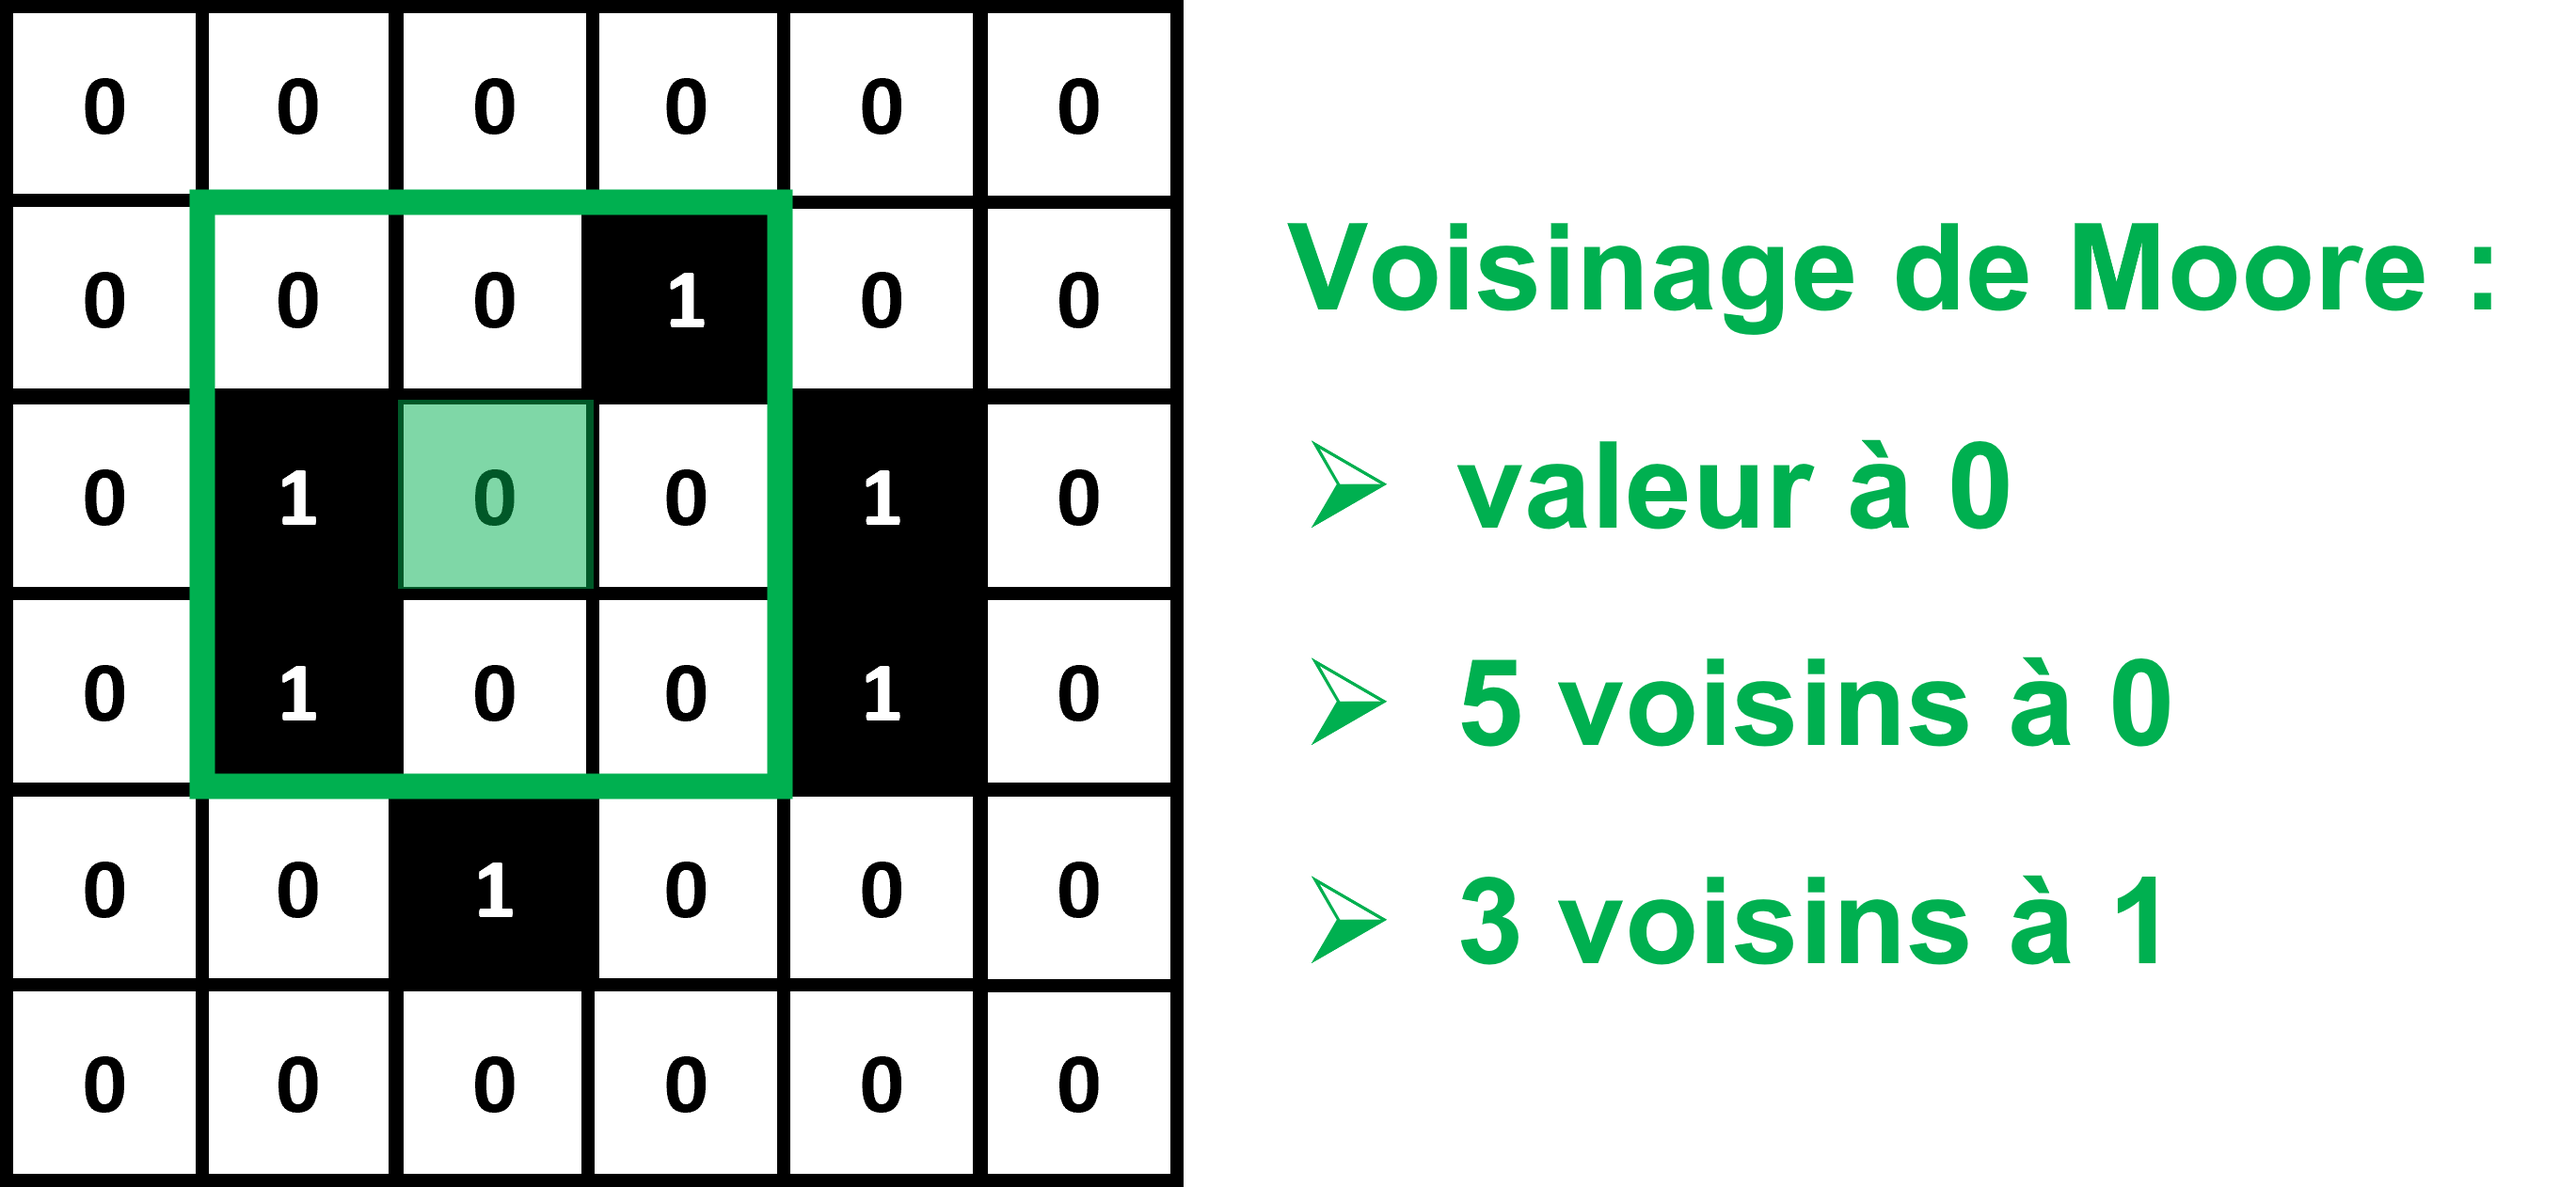
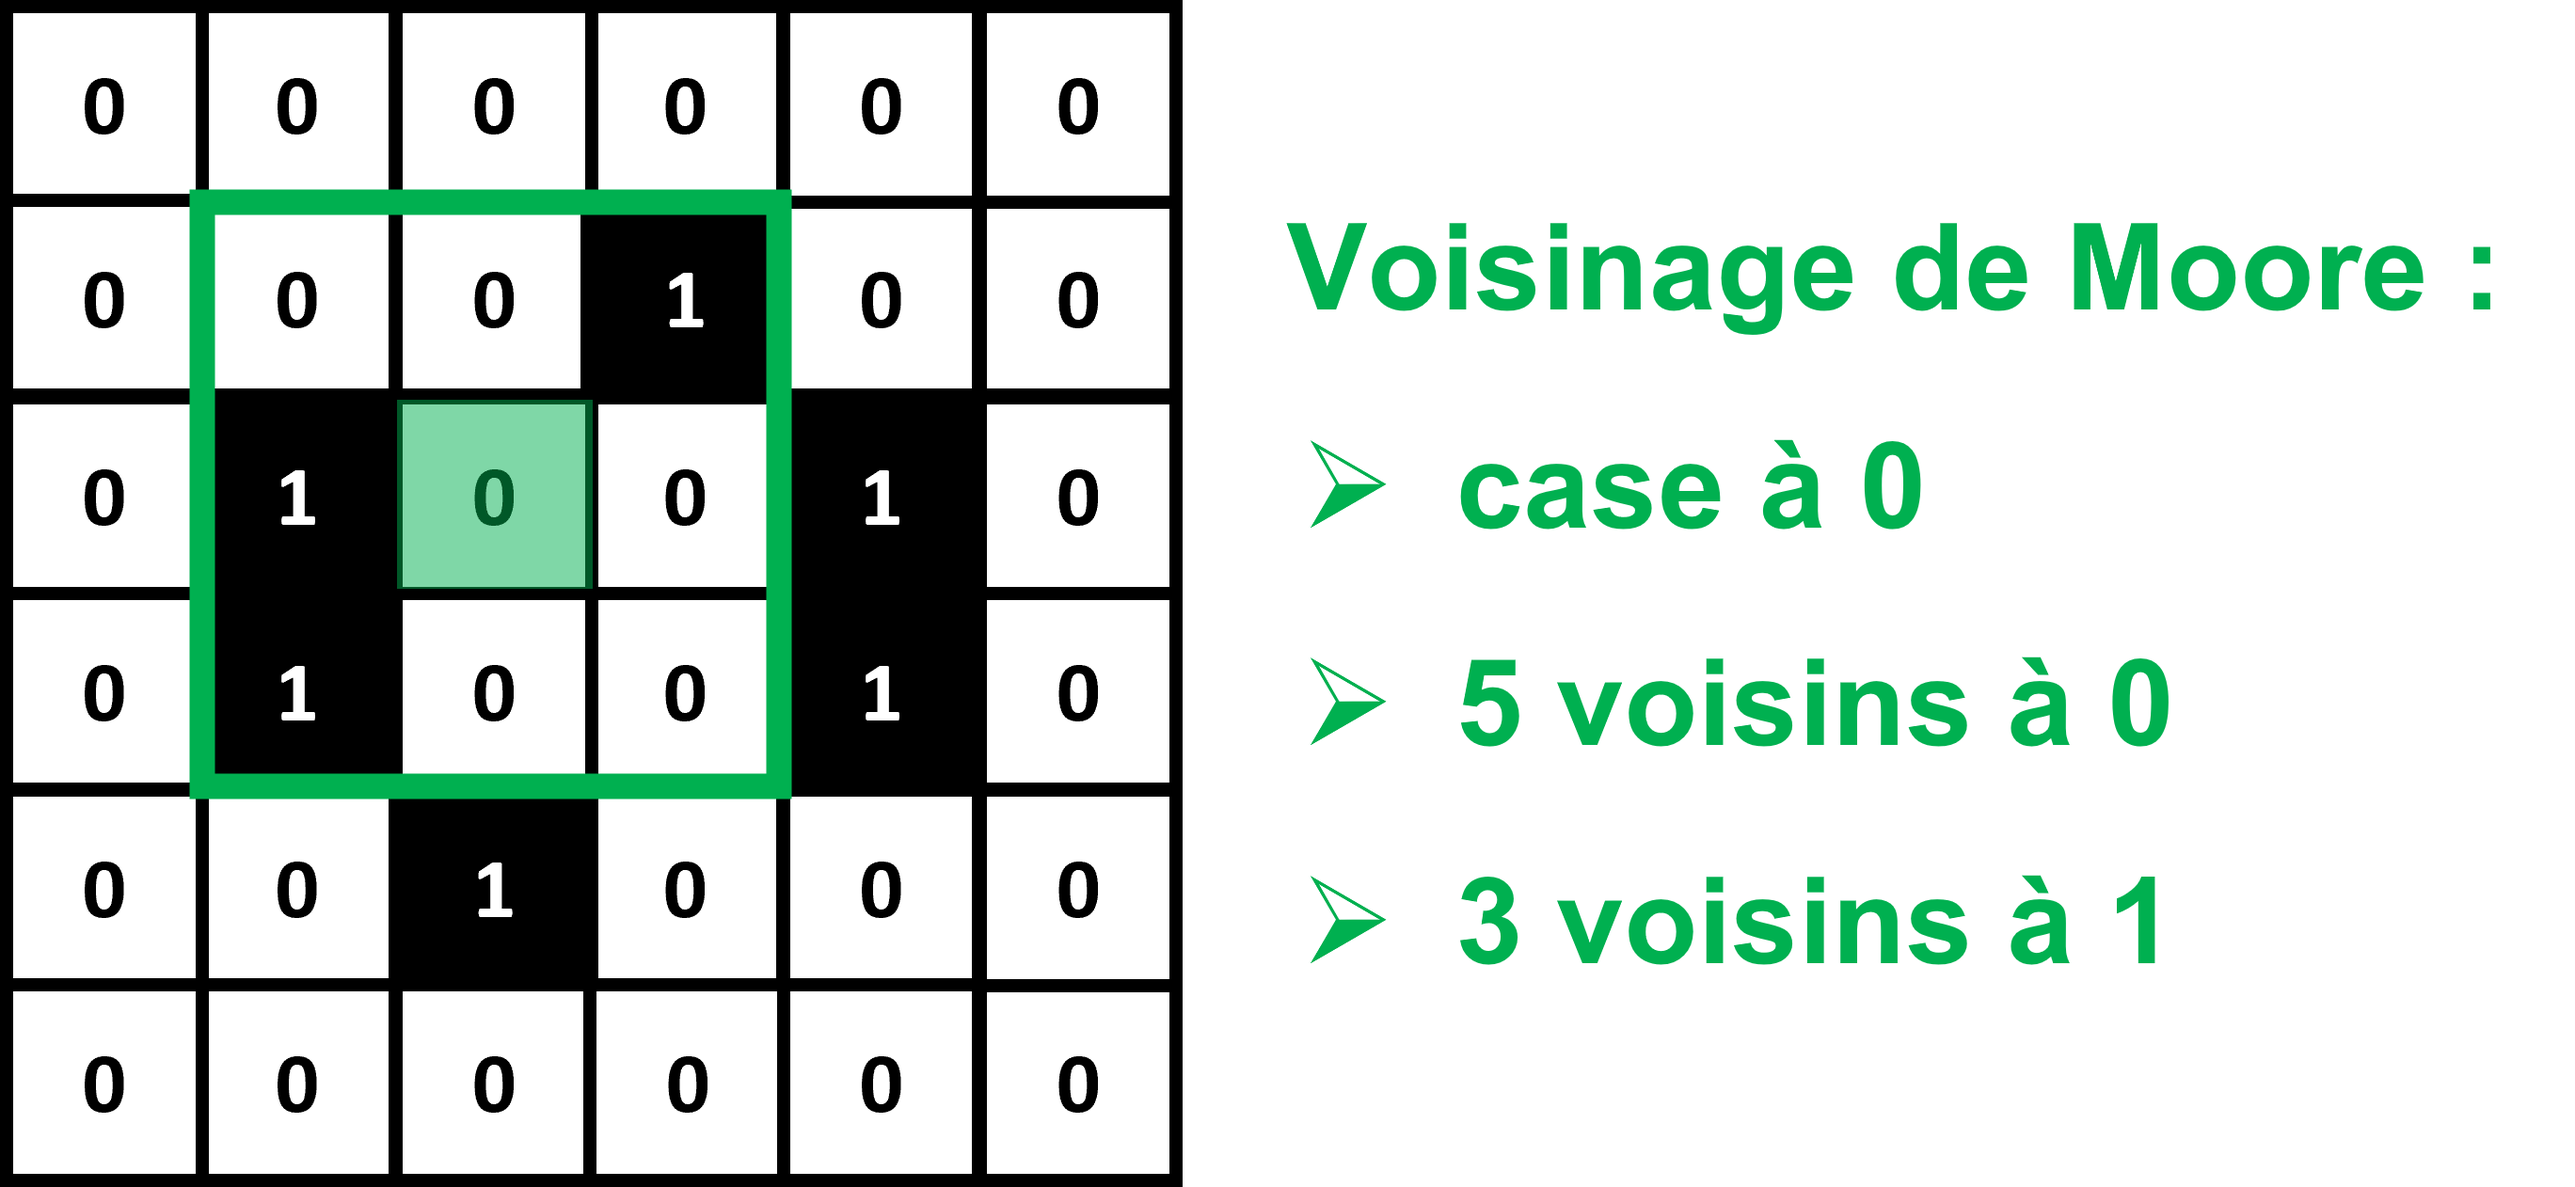
-Progress on TP2.

Changed region(s): [[0.6211, 0.3708, 0.7764, 0.4635], [0.559, 0.3708, 0.5901, 0.4635], [0.2484, 0.8962, 0.2795, 0.9271]]

diff --git a/docs/TP2.md b/docs/TP2.md
@@ -37,7 +37,7 @@ Pour chaque itération :
 
 * Si une case est à 1, et est entourée de 2 ou 3 voisins à 1, alors elle reste à 1. Sinon, elle passe à 0.
 
-![Règles du jeu de la vie](img/.gif)
+![Règles du jeu de la vie](img/TP2_iteration.gif)
 
 Ces règles font apparaitre des motifs se déplaçant plus ou moins vite sur la grille, intéragissant les uns avec les autres, ce qui leur donne l'apparence d'organismes vivant.
 
@@ -54,7 +54,7 @@ B et S sont des séries de numéros entre 0 et 8 correspondant respectivement au
 
 On en déduit que le "Jeu de la Vie" peut être définit au format B/S par : **3/23**.
 
-Lors de ce TP, nous allons programmer un automate cellulaire de type "life-like", sous la forme d'une classe Python avec des attributs et des méthodes qu'il nous faudra définir.
+Lors de ce TP, nous allons programmer un automate cellulaire de type "life-like", sous la forme d'une **classe** Python avec des attributs et des méthodes qu'il nous faudra définir.
 
 **N'oubliez d'importer Numpy et Matplotlib au début de votre programme !**
 
